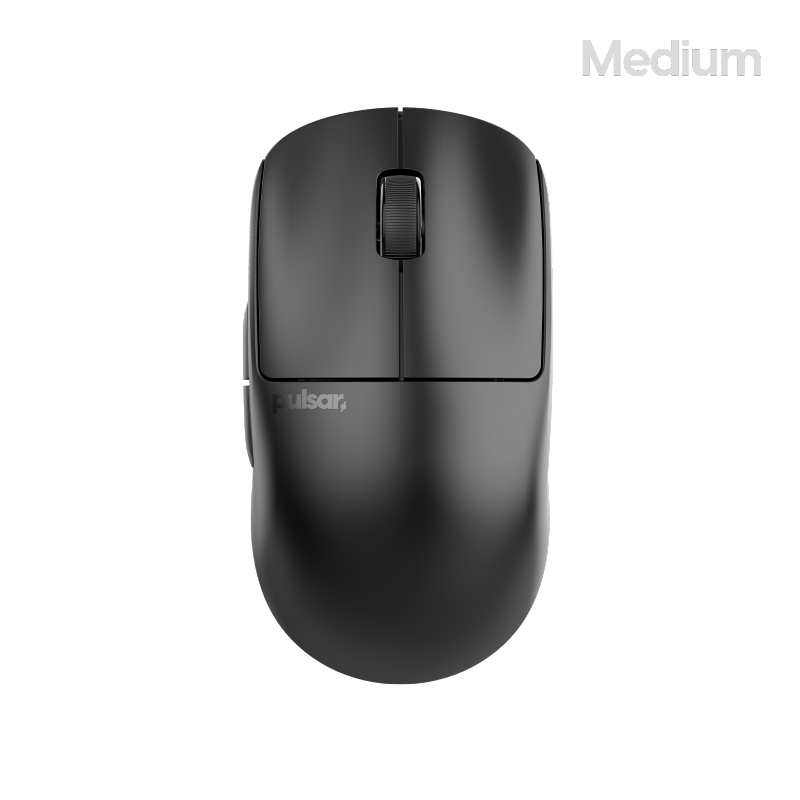
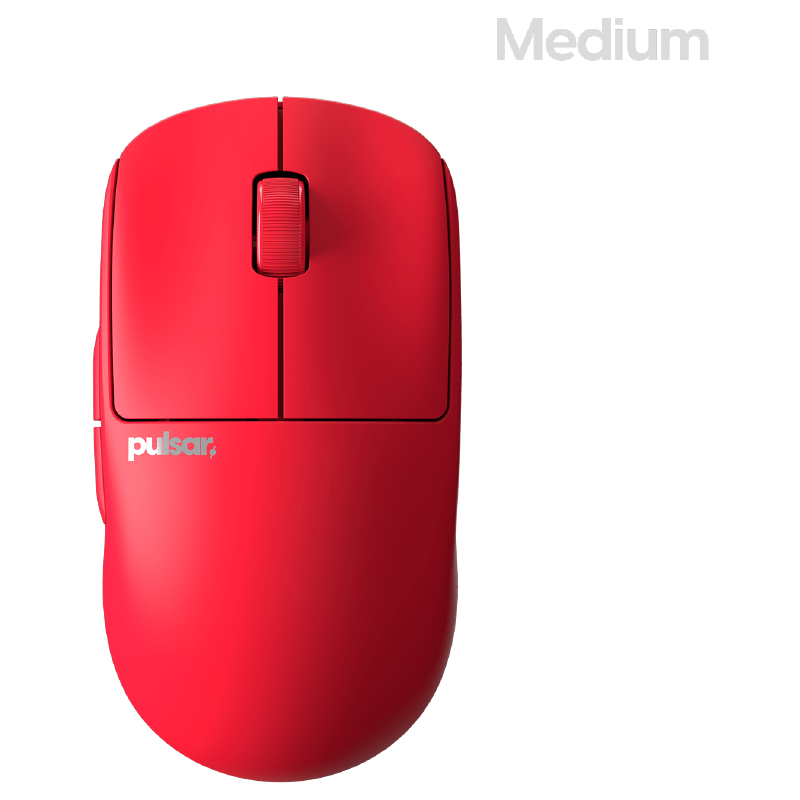
chore(ui): use the Red Edition X2 V2 render for the pulsar artwork

diff --git a/public/devices/README.md b/public/devices/README.md
@@ -88,7 +88,7 @@ terms before including it in a public release package.
 3S Bluetooth Edition graphite top view). Confirm redistribution terms before
 including it in a public release package.
 
-`pulsar-x2-v2.png` was supplied from Pulsar Gaming Gears' product CDN for the
-X2 v2 Wireless Gaming Mouse (top-down view of the Medium Black shell),
-downscaled from 1600px to 800px. Confirm redistribution terms before including
-it in a public release package.
+`pulsar-x2-v2.png` was supplied from Pulsar Gaming Gears' Japan CDN product
+render for the X2 v2 [Red Edition] Gaming Mouse (top-down view of the Medium
+shell), cropped to the mouse, resized, and centered on a transparent canvas.
+Confirm redistribution terms before including it in a public release package.
